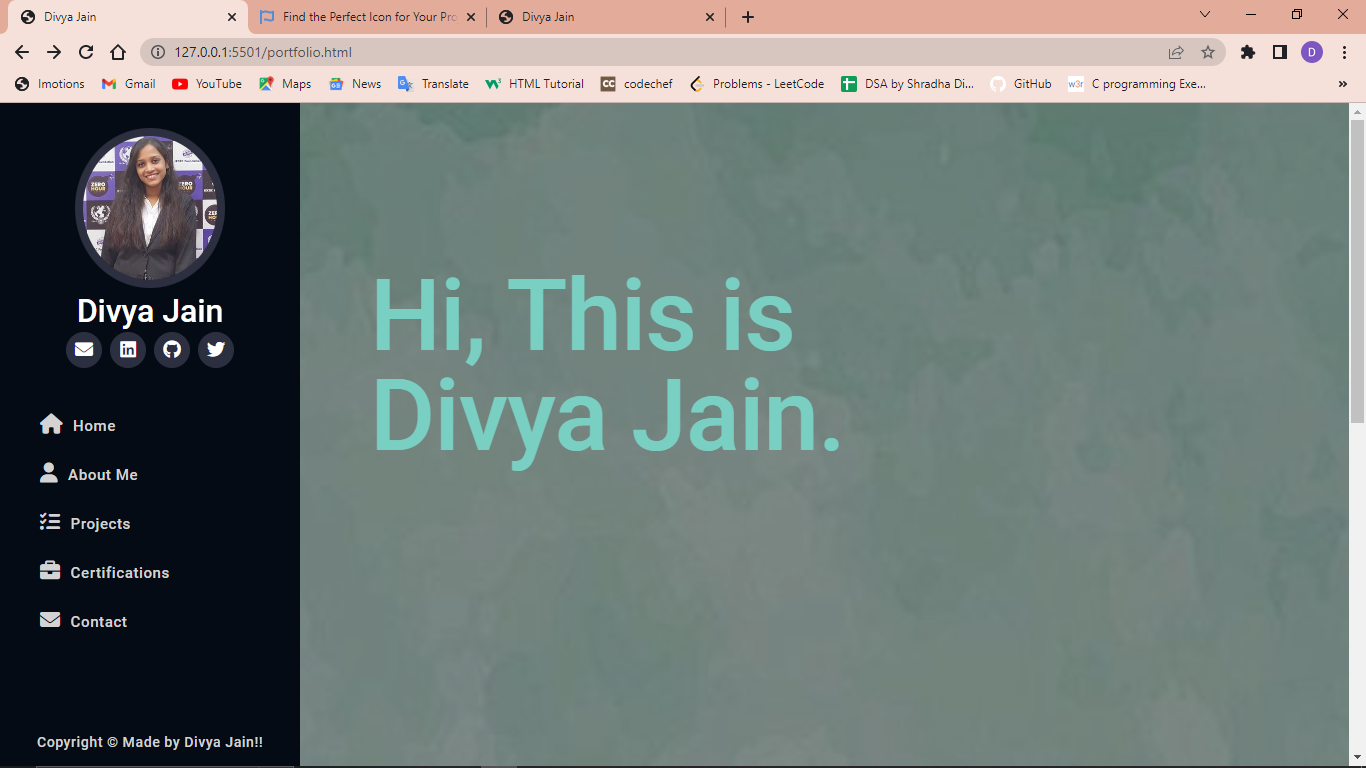
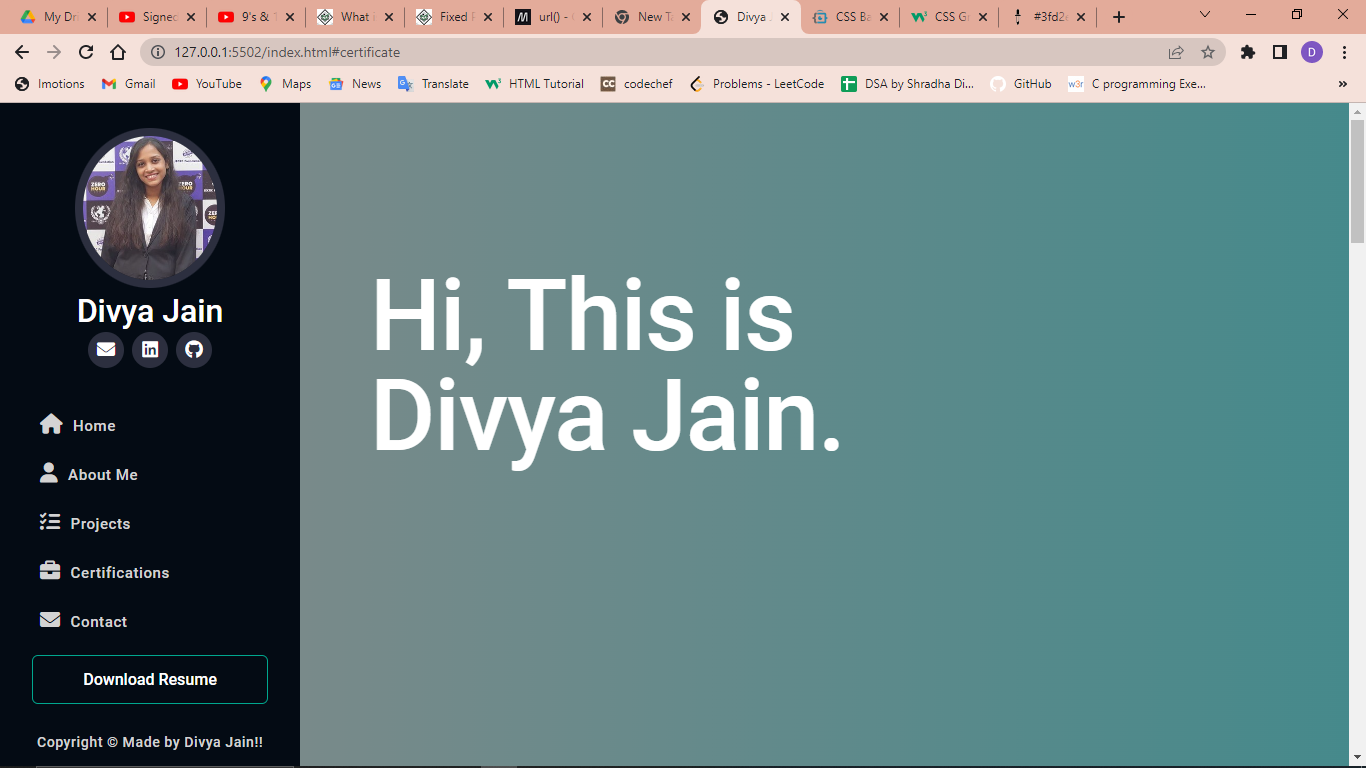
Data

diff --git a/index.html b/index.html
@@ -37,7 +37,7 @@
                 <a href="https://www.linkedin.com/in/divyajain25/" target="_blank"><i
                         class=" fa-brands fa-linkedin"></i></a>
                 <a href="https://github.com/djaincs" target="_blank"><i class="fa-brands fa-github"></i></a>
-                <a href="#"><i class="fa-brands fa-twitter"></i></a>
+                <!-- <a href="#"><i class="fa-brands fa-twitter"></i></a>     -->
             </div>
         </div>
 
@@ -217,9 +217,7 @@
                     </div>
                 </div>
                 <div class="training">
-                    <div class="imgheight">
-                        <img src="images/c_cpp.jpg" alt="">
-                    </div>
+                        <img src="images/c.jpg" alt="">
                     <div class="det">
                         <a href="images/c_cpp.jpg" download>Download</a>
                     </div>

diff --git a/styles/certificate.css b/styles/certificate.css
@@ -4,7 +4,7 @@
 }
 .certificate-list{
     display: grid;
-    grid-template-columns: repeat(auto-fit, minmax(250px, 1fr));
+    grid-template-columns: 1fr 1fr 1fr;
     grid-gap: 40px;
     margin-top: 30px;
 }
@@ -60,11 +60,6 @@
     height: 100%;
 }
 
-.training .imgheight{
-    height: 250px;
-    object-fit: cover;
-    width: 100%;
-}
 
 /* Mobile View */
 @media only screen and (max-width:800px){
@@ -84,5 +79,17 @@
         border-radius: 10px;
         margin-left: 20px;
         margin-bottom: 9px;
+    }
+}
+@media only screen and (max-width:400px){
+    #certificate{
+        padding: 20px;
+        height: 110vh;
+    }
+}
+@media only screen and (max-height:400px){
+    #certificate{
+        padding: 20px;
+        height: 110vh;
     }
 }

diff --git a/styles/contact.css b/styles/contact.css
@@ -105,3 +105,21 @@
     }
     
 }
+@media only screen and (max-width:400px){
+    #contact{
+        padding: 50px 10px;
+        height: 90vh;
+    }
+    
+}
+@media only screen and (max-width:2500px){
+    #contact{
+        height: 110vh;
+    } 
+}
+@media only screen and (max-width:3000px){
+    #contact{
+       
+        height: 110vh;
+    } 
+}

diff --git a/styles/home.css b/styles/home.css
@@ -12,7 +12,7 @@ main{
 #home{
     height: 100vh;
     width: 100%;
-    background-image: url(images/bg.jpg);
+    background-image: linear-gradient(to right, rgba(225, 236, 235, 0.4),rgba(91, 240, 245, 0.8));
     background-size: cover;
     background-attachment: fixed;
     display: flex;

diff --git a/styles/project.css b/styles/project.css
@@ -1,5 +1,5 @@
 #projects{
-    padding: 60px;
+    padding: 30px;
     height: 100vh;
 }
 .project-list{
